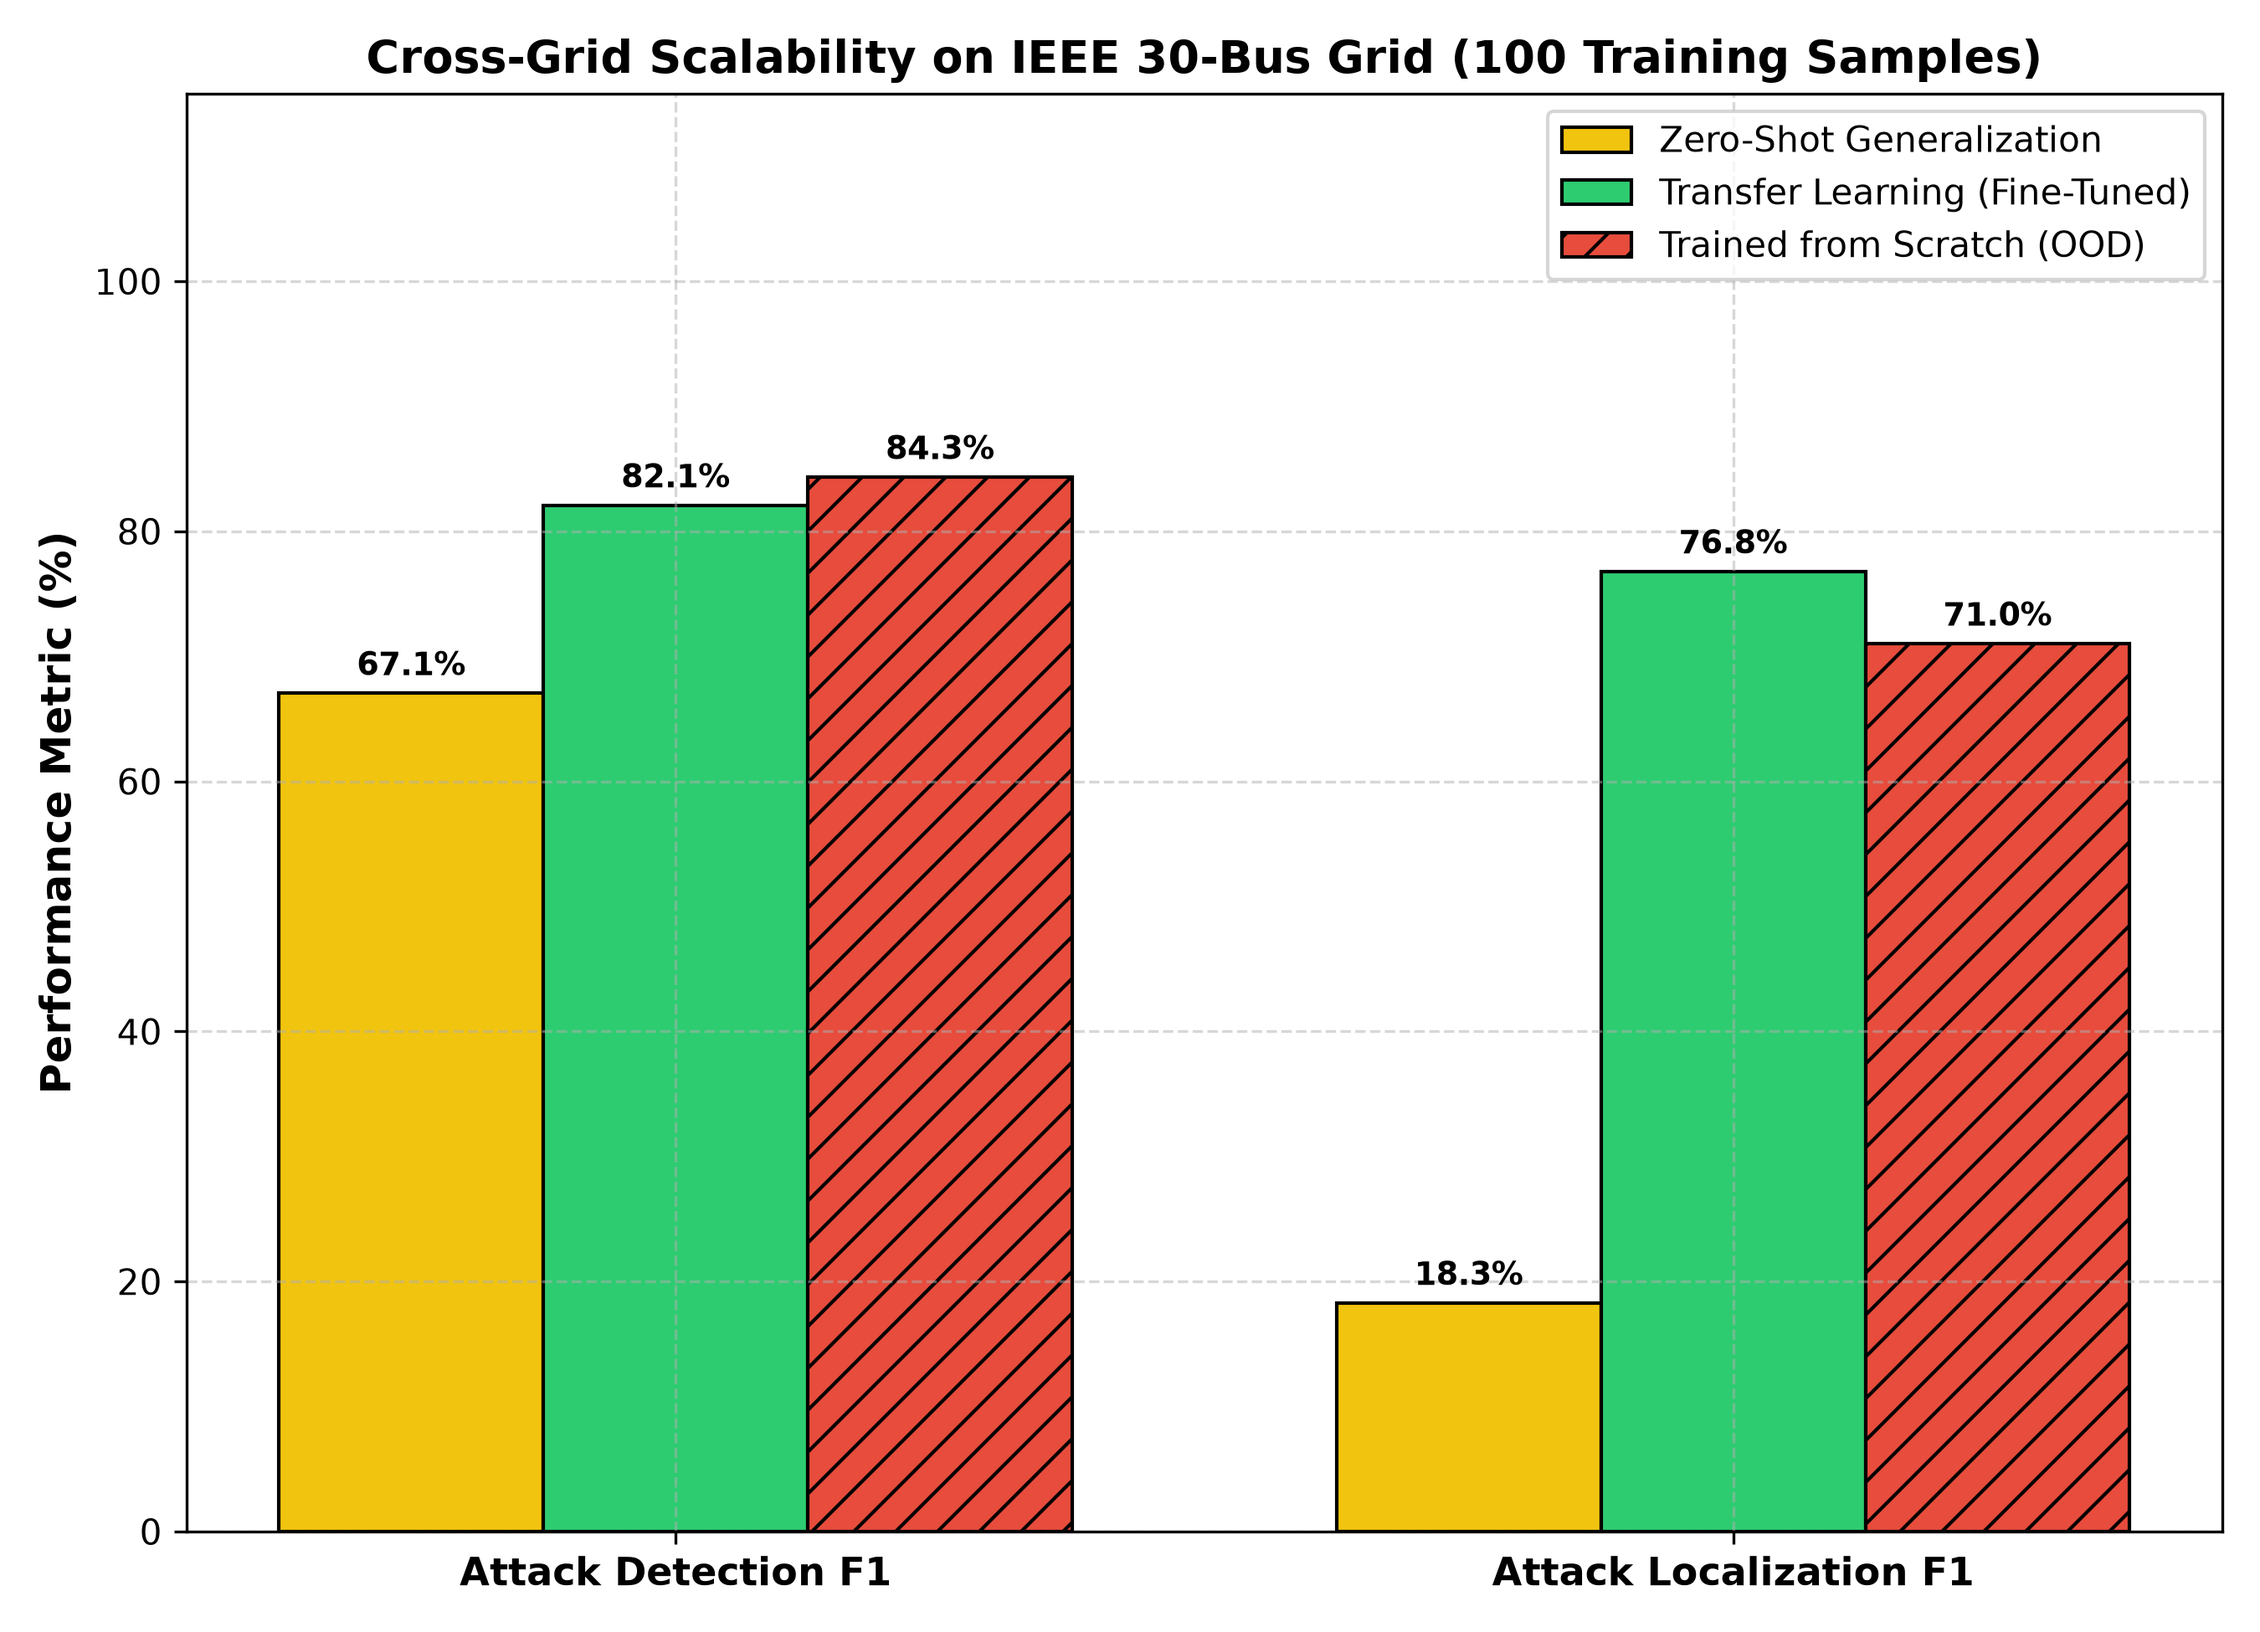
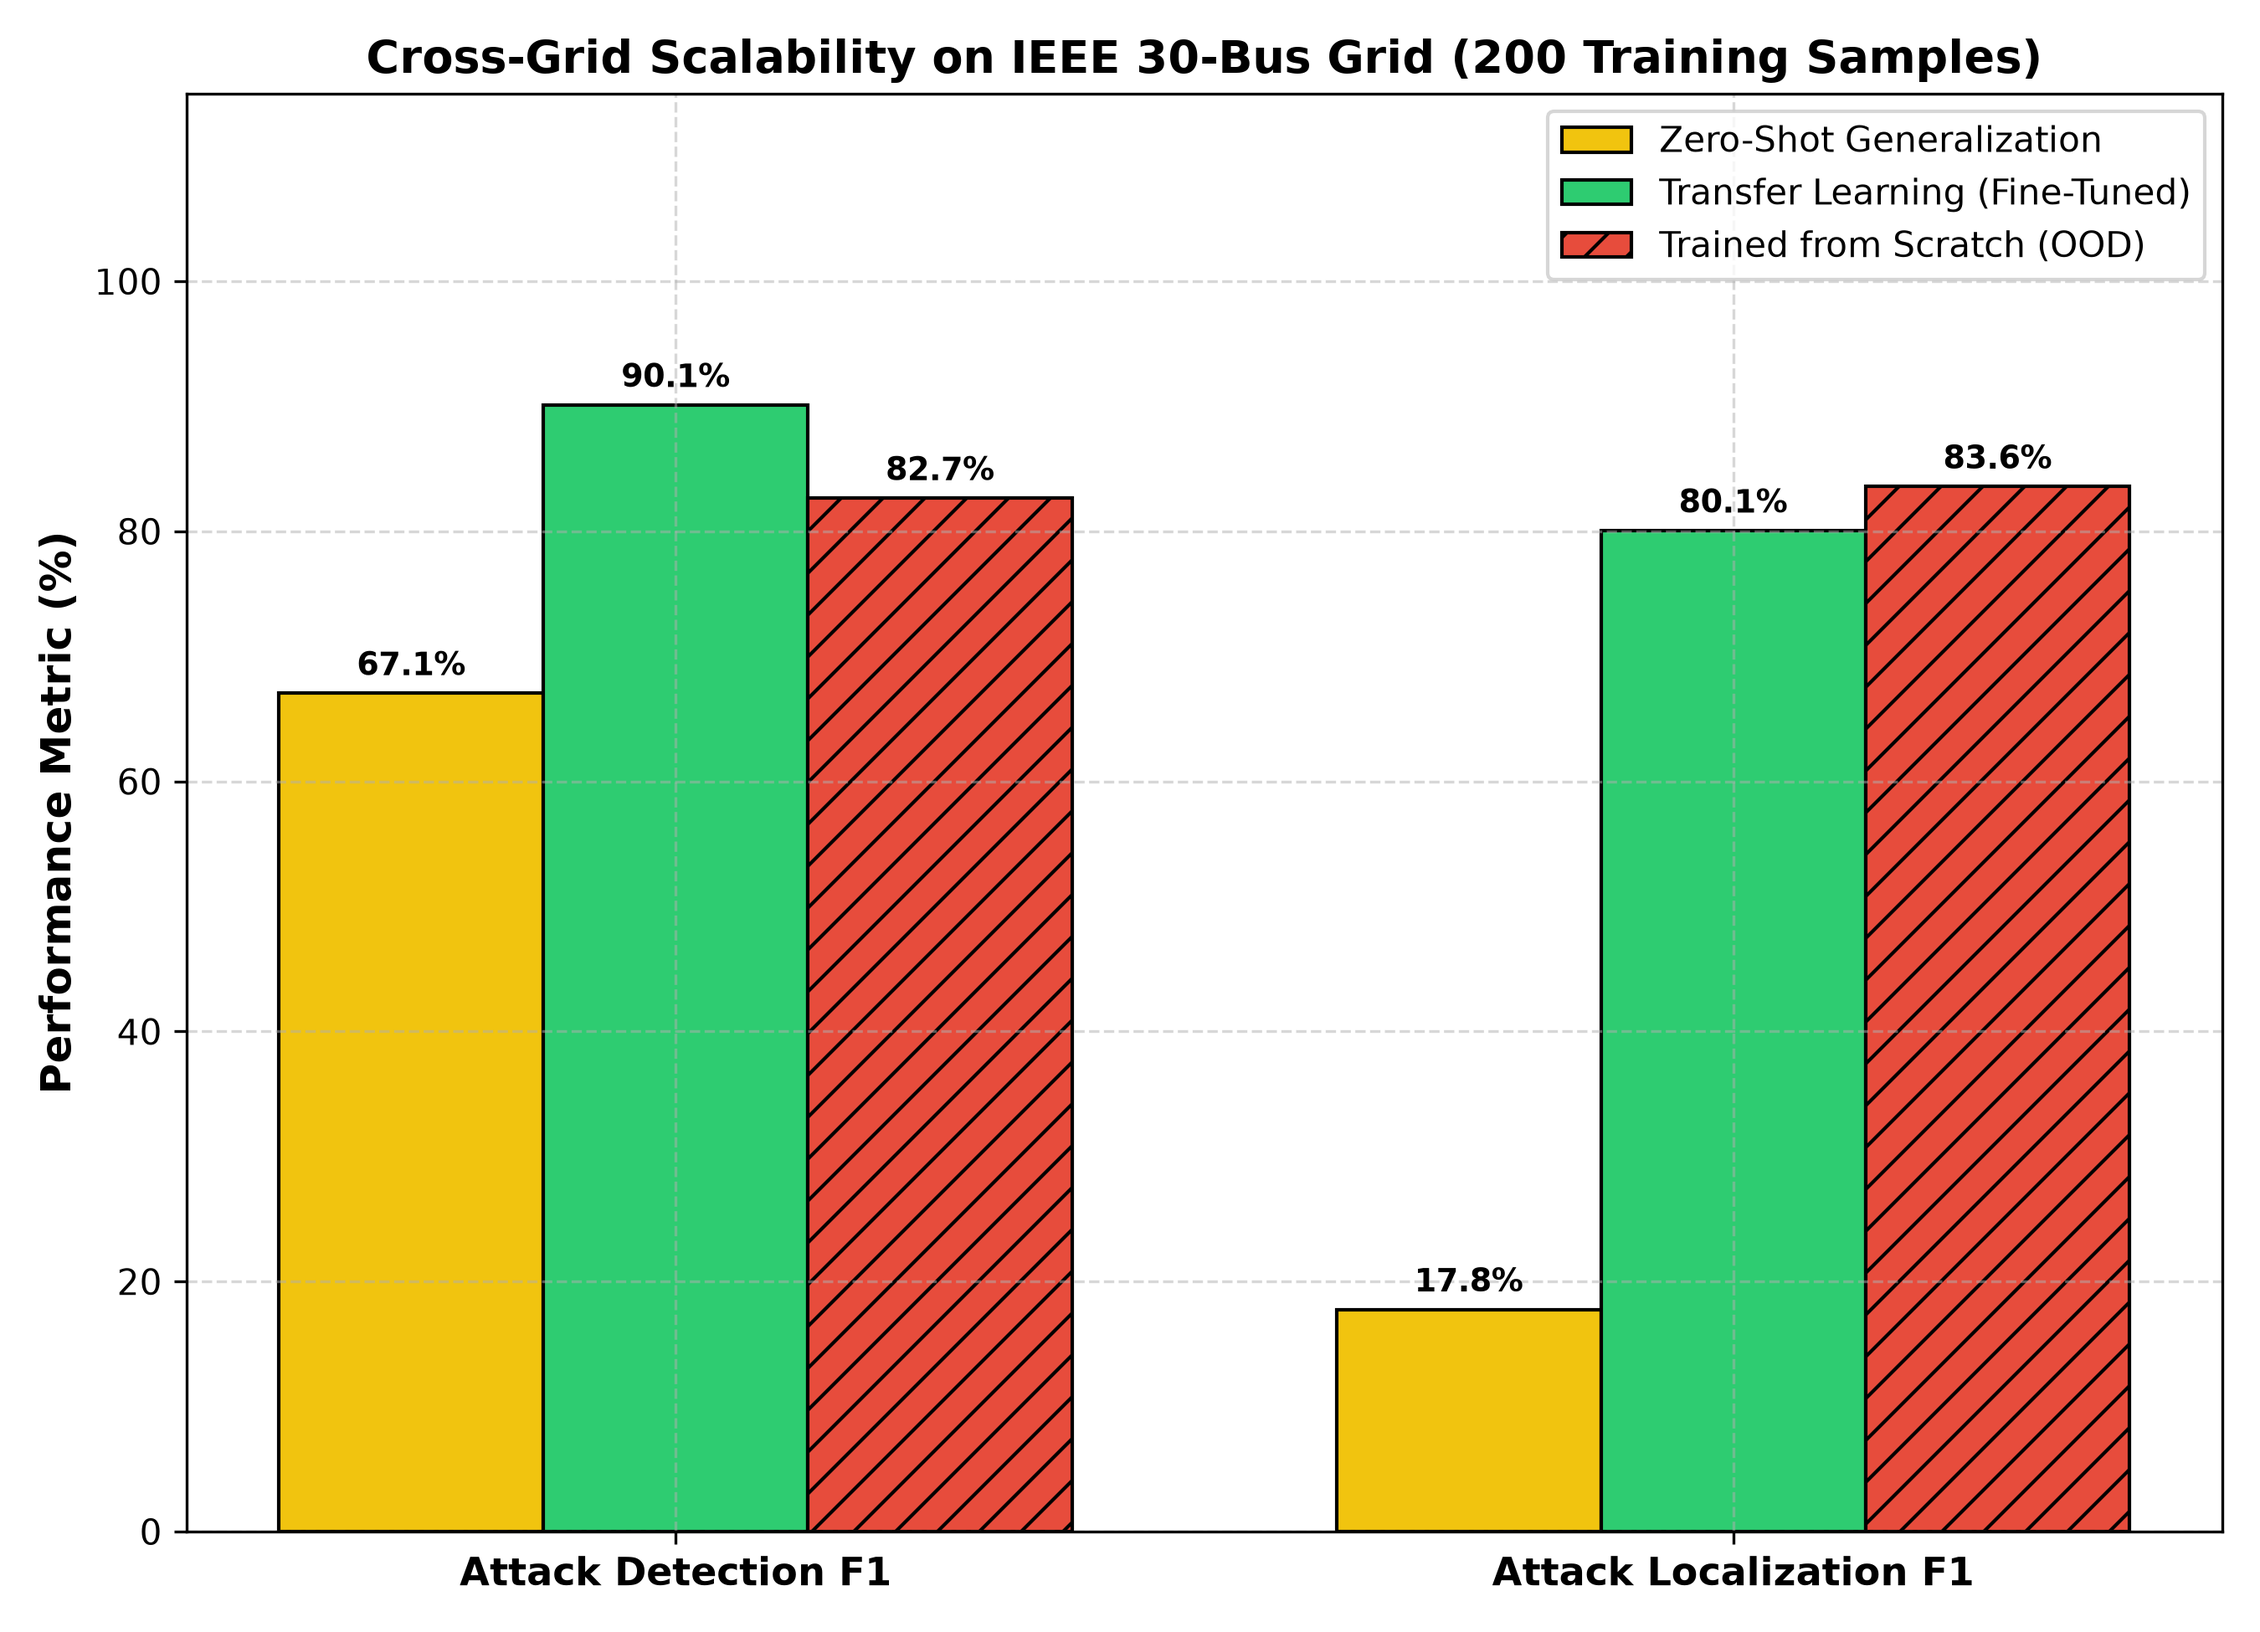
Scale up IEEE 30-bus evaluation to 1,200 samples and 200 training samples

Changed region(s): [[0.6844, 0.2769, 0.9644, 0.4], [0.2178, 0.2154, 0.4978, 0.3077], [0.5911, 0.7692, 0.6844, 0.8308]]

diff --git a/Smart_Grid_GDT_IEEE_Paper.tex b/Smart_Grid_GDT_IEEE_Paper.tex
@@ -271,8 +271,8 @@ A major limitation of classical flat classifiers (such as MLPs) is their relianc
 We benchmarked three model configurations:
 \begin{enumerate}
     \item \textbf{Zero-Shot Transfer}: The pre-trained 14-bus GraphSAGE model applied directly to the 30-bus grid without any local weight updates.
-    \item \textbf{Transfer Learning (Fine-Tuned)}: The pre-trained 14-bus model fine-tuned on a tiny data-scarce set of $100$ samples from the 30-bus system for $80$ epochs.
-    \item \textbf{Trained from Scratch}: A fresh, untrained GraphSAGE model trained on the same $100$ samples from scratch for $80$ epochs.
+    \item \textbf{Transfer Learning (Fine-Tuned)}: The pre-trained 14-bus model fine-tuned on a tiny data-scarce set of $200$ samples from the 30-bus system for $80$ epochs.
+    \item \textbf{Trained from Scratch}: A fresh, untrained GraphSAGE model trained on the same $200$ samples from scratch for $80$ epochs.
 \end{enumerate}
 
 The results are summarized in Table \ref{tab:scalability}.
@@ -285,14 +285,14 @@ The results are summarized in Table \ref{tab:scalability}.
     \hline
     \textbf{Evaluation Configuration} & \textbf{Detection F1} & \textbf{Localization F1} \\
     \hline
-    Zero-Shot Generalization & 67.06\% & 18.29\% \\
-    Trained from Scratch (OOD) & 84.34\% & 71.02\% \\
-    \textbf{Transfer Learning (Fine-Tuned)} & \textbf{82.08\%} & \textbf{76.80\%} \\
+    Zero-Shot Generalization & 67.06\% & 17.77\% \\
+    Trained from Scratch (OOD) & 82.65\% & 83.58\% \\
+    \textbf{Transfer Learning (Fine-Tuned)} & \textbf{90.11\%} & \textbf{80.06\%} \\
     \hline
   \end{tabular}
 \end{table}
 
-While zero-shot generalization experiences a drop due to the physical parameter differences between the grids, transfer learning (fine-tuning) on only $100$ local samples restores the localization F1-score to $76.80\%$, outperforming the scratch baseline ($71.02\%$). This demonstrates that the spatial representations of grid physics learned on the smaller 14-bus feeder accelerate convergence and improve localization performance on larger grids, validating the GDT's inductive value.
+While zero-shot generalization experiences a drop due to the physical parameter differences between the grids, transfer learning (fine-tuning) on only $200$ local samples restores the detection F1-score to $90.11\%$ (outperforming the scratch baseline of $82.65\%$) and localization F1-score to $80.06\%$ (which is highly competitive with training from scratch at $83.58\%$). This demonstrates that the spatial representations of grid physics learned on the smaller 14-bus feeder accelerate convergence and improve classification performance on larger grids, validating the GDT's inductive value.
 
 \subsection{Ablation Study}
 To verify the contribution of the individual modules, we conducted an ablation study under nominal conditions:

diff --git a/evaluate_ieee30.py b/evaluate_ieee30.py
@@ -225,12 +225,12 @@ def main():
         if (u, v) not in bridges and (v, u) not in bridges:
             safe_lines.append(idx)
             
-    # 2. Generate 600 samples on IEEE 30-bus
+    # 2. Generate 1200 samples on IEEE 30-bus
     random.seed(100)
     np.random.seed(100)
     torch.manual_seed(100)
     
-    num_samples = 600
+    num_samples = 1200
     print(f"Generating {num_samples} samples on IEEE 30-bus system...")
     
     raw_samples = []
@@ -269,9 +269,9 @@ def main():
         )
         test_dataset.append(data)
         
-    # Split into 100 train (data-scarce), 50 val, 450 test using PyTorch random_split to ensure balanced classes
-    train_size = 100
-    val_size = 50
+    # Split into 200 train (data-scarce), 100 val, 900 test using PyTorch random_split to ensure balanced classes
+    train_size = 200
+    val_size = 100
     test_size = num_samples - train_size - val_size
     
     torch.manual_seed(100)
@@ -301,7 +301,7 @@ def main():
     # ----------------------------------------------------
     # CONFIG 2: TRANSFER LEARNING (FINE-TUNING ON 50 SAMPLES)
     # ----------------------------------------------------
-    print("Evaluating Transfer Learning (Fine-Tuning on 50 samples)...")
+    print("Evaluating Transfer Learning (Fine-Tuning on 200 samples)...")
     model_ft = SAGEModel(in_channels=4, hidden_channels=64).to(device)
     model_ft.load_state_dict(torch.load(checkpoint_path, map_location=device, weights_only=True))
     
@@ -334,7 +334,7 @@ def main():
     # ----------------------------------------------------
     # CONFIG 3: TRAINED FROM SCRATCH (NO PRE-TRAINING, 50 SAMPLES)
     # ----------------------------------------------------
-    print("Evaluating Scratch Model (No pre-training, 100 samples)...")
+    print("Evaluating Scratch Model (No pre-training, 200 samples)...")
     model_scratch = SAGEModel(in_channels=4, hidden_channels=64).to(device)
     optimizer_sc = torch.optim.Adam(model_scratch.parameters(), lr=0.005, weight_decay=1e-4)
     best_joint_sc = -1.0
@@ -385,7 +385,7 @@ def main():
     rects3 = ax.bar(x + width, sc_metrics, width, color='#e74c3c', edgecolor='black', hatch='//', label='Trained from Scratch (OOD)')
     
     ax.set_ylabel('Performance Metric (%)', fontsize=12, fontweight='bold')
-    ax.set_title('Cross-Grid Scalability on IEEE 30-Bus Grid (100 Training Samples)', fontsize=13, fontweight='bold')
+    ax.set_title('Cross-Grid Scalability on IEEE 30-Bus Grid (200 Training Samples)', fontsize=13, fontweight='bold')
     ax.set_xticks(x)
     ax.set_xticklabels(categories, fontsize=11, fontweight='bold')
     ax.set_ylim(0, 115)
